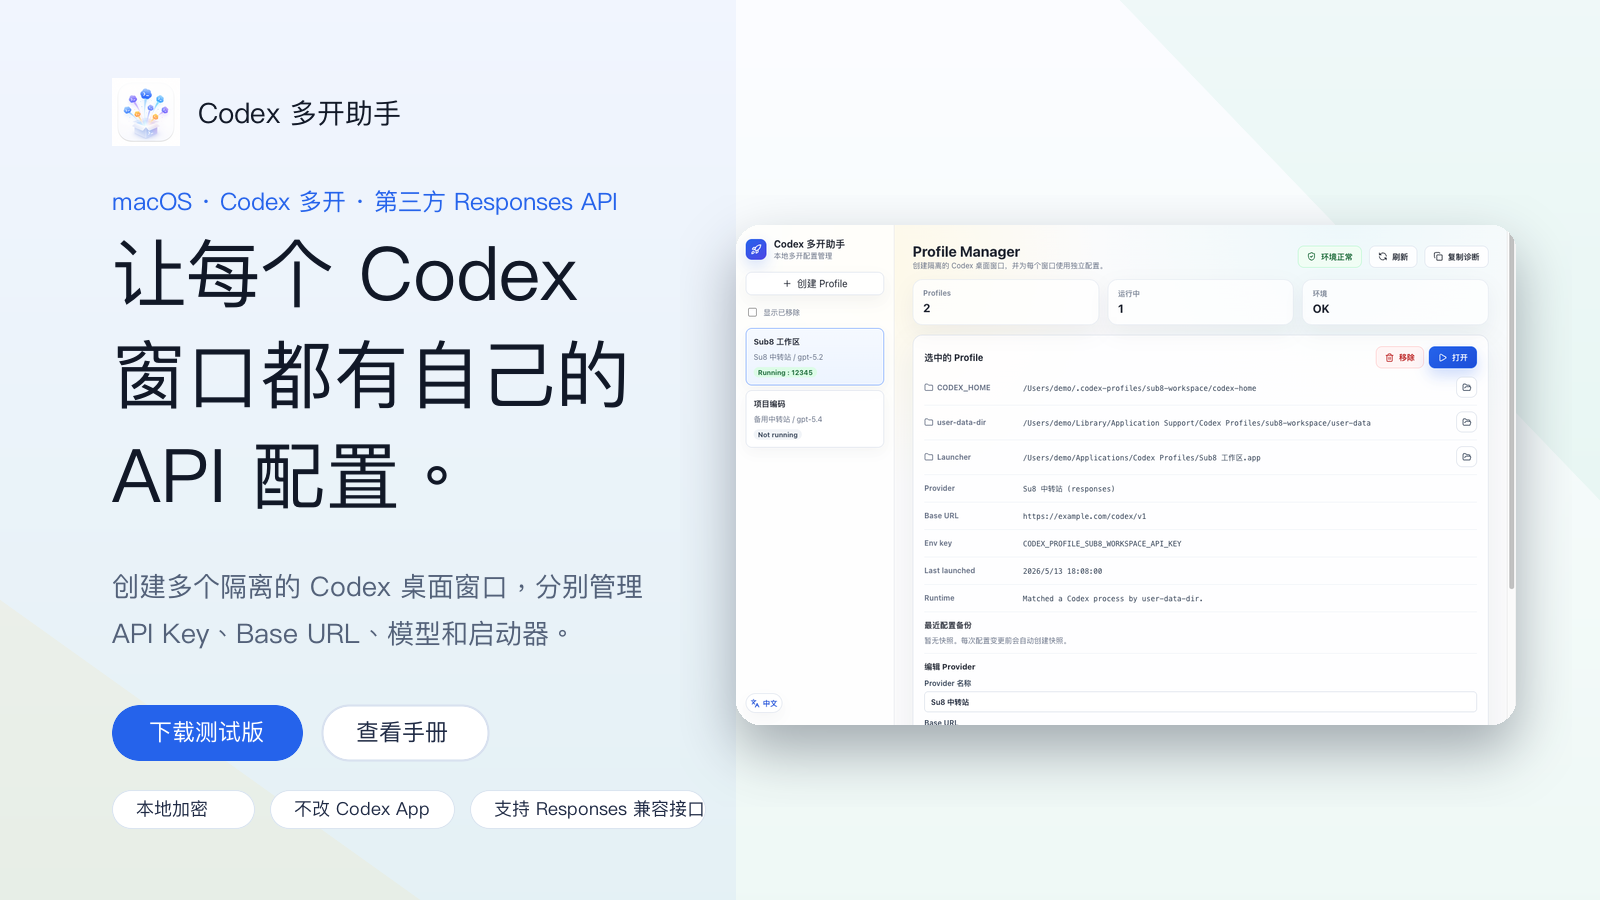
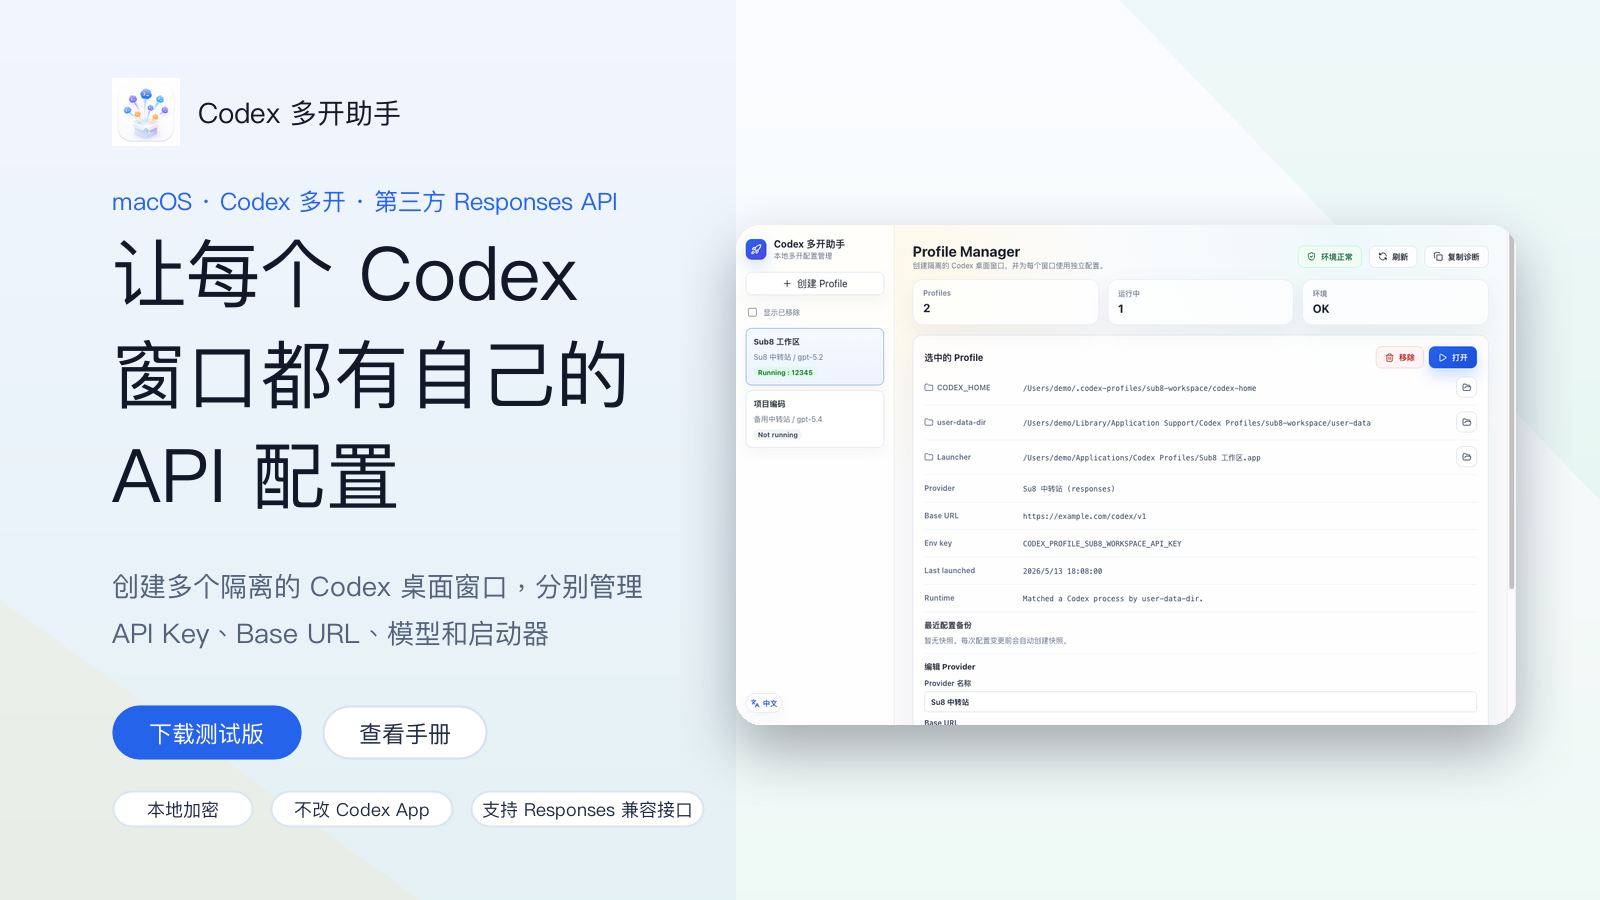
Polish launch visuals and landing demo

diff --git a/docs/landing/styles.css b/docs/landing/styles.css
@@ -319,6 +319,39 @@ p {
   gap: 16px;
 }
 
+.demo-video {
+  display: grid;
+  grid-template-columns: minmax(0, 1fr) 280px;
+  align-items: center;
+  gap: 22px;
+  margin: 0 0 22px;
+  border: 1px solid rgb(216 222 232 / 78%);
+  border-radius: 26px;
+  padding: 18px;
+  background: rgb(255 255 255 / 78%);
+  box-shadow: 0 18px 48px rgb(15 23 42 / 7%);
+}
+
+.demo-video video {
+  width: 100%;
+  overflow: hidden;
+  border: 1px solid rgb(216 222 232 / 76%);
+  border-radius: 18px;
+  background: #ffffff;
+}
+
+.demo-video strong {
+  display: block;
+  margin-bottom: 8px;
+  font-size: 18px;
+}
+
+.demo-video p {
+  margin: 0;
+  font-size: 14px;
+  line-height: 1.7;
+}
+
 .steps article {
   min-height: 176px;
   padding: 22px;
@@ -652,6 +685,10 @@ code {
   .security-grid,
   .steps {
     grid-template-columns: 1fr 1fr;
+  }
+
+  .demo-video {
+    grid-template-columns: 1fr;
   }
 }
 

diff --git a/docs/landing/index.html b/docs/landing/index.html
@@ -78,6 +78,15 @@
           <h2>从创建到打开，只保留必要步骤。</h2>
           <p>面向第一次配置的用户，默认继承已有 Codex 配置，并在关键位置给出测试和回退能力。</p>
         </div>
+        <div class="demo-video">
+          <video controls muted playsinline preload="metadata" poster="../marketing-assets/app-dashboard-demo.png">
+            <source src="../marketing-assets/codex-workflow-demo.mp4" type="video/mp4" />
+          </video>
+          <div>
+            <strong>20 秒看完创建流程</strong>
+            <p>创建 Profile、填写 Provider、获取模型、测试接口、生成启动器并打开独立 Codex 窗口。</p>
+          </div>
+        </div>
         <div class="steps">
           <article>
             <span>01</span>